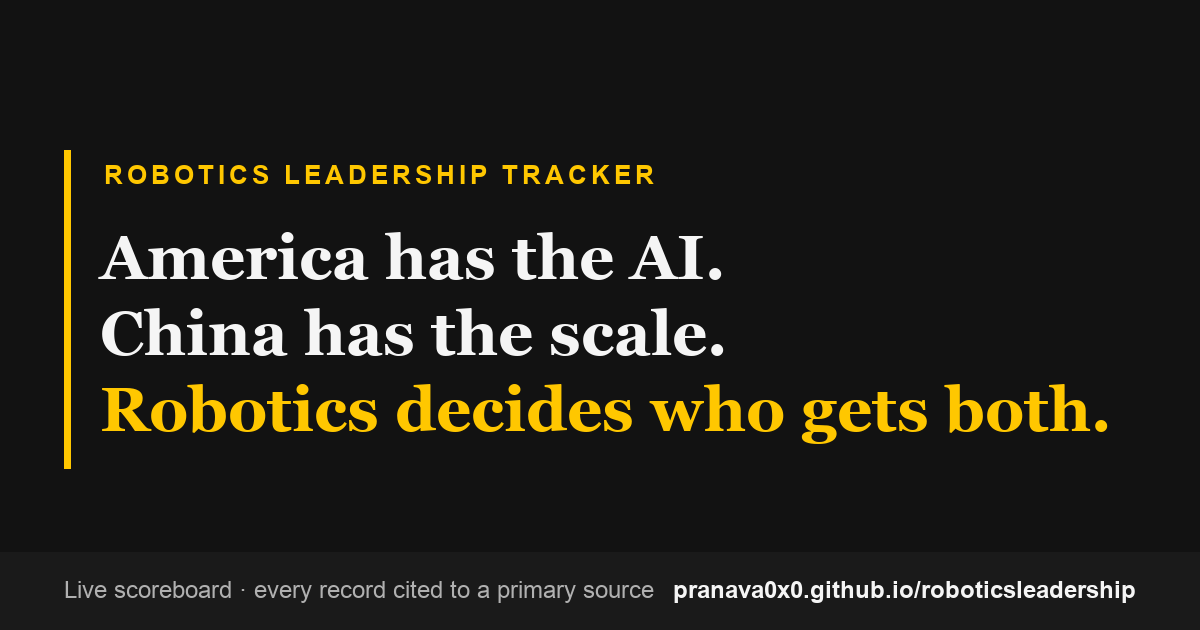
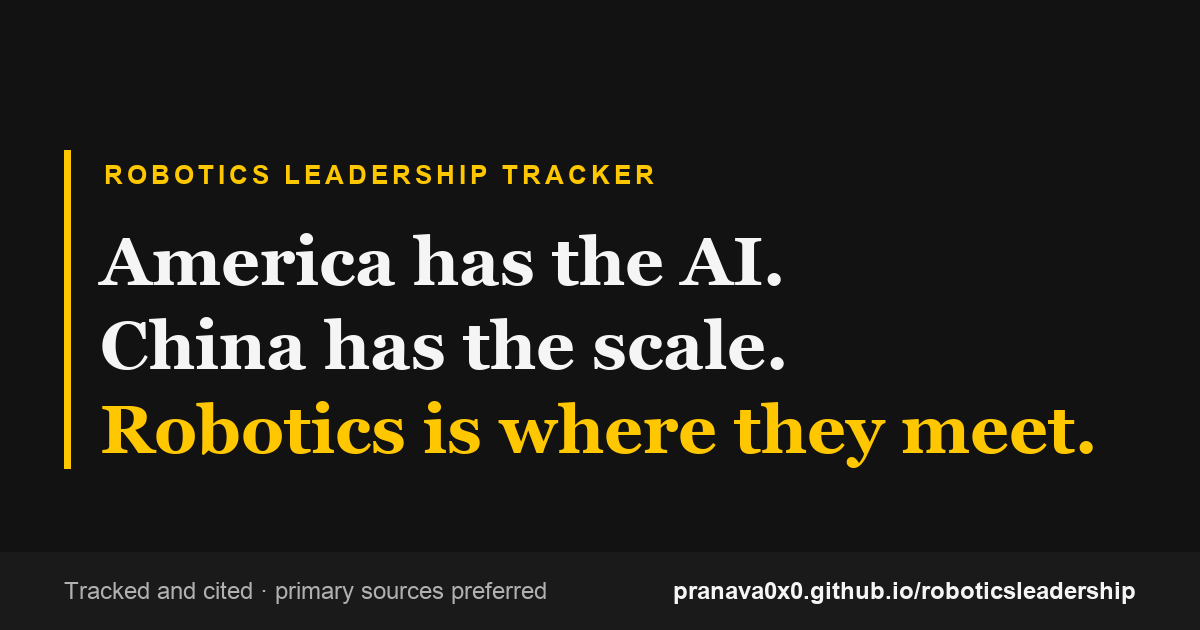
copy: reframe the front page around what the site offers, not what it claims
The dashboard stated contested predictions as settled fact, and made one
promise the data doesn't keep. Owner call to lead with the service and demote
the argument.

Cut, as forecasts written in the indicative:
- "Robotics decides who gets both"
- "Whoever combines intelligence with scale first sets the terms of the
  physical economy"
- "The decisive variable this decade isn't invention -- it's policy"
  (a strong prediction, and self-serving for a policy site)
- "This site keeps the score" -- cast the site as arbiter; the offer to a
  policymaker is the cited record, the verdict is theirs.

Hedged, because the site's own source page already hedges it: index asserted
"America leads where robots are invented and funded" while china.html's method
note concedes "'Edge' calls are editorial judgments on sourced data, not
scores". The brief now says "on the measures tracked here" and points at that
concession.

Corrected, because it is false rather than merely confident: "every record
cited to a primary source". ~16% of company sources and ~13% of news
source_urls are secondary press (Apptronik's funding cites TechCrunch and
Bloomberg). Replaced sitewide with the true invariant -- "every record is
cited; primary sources preferred" -- across 7 page footers, index + news
meta/OG, the share-card footer, and llms.txt. policies.html keeps a specific
verified claim ("nearly all... a few to trade press"): its sources really are
[…]

Changed region(s): [[0.0617, 0.4825, 0.925, 0.754], [0.0617, 0.3619, 0.6475, 0.4524], [0.0617, 0.9048, 0.925, 0.9651]]

diff --git a/docs/index.html b/docs/index.html
@@ -4,17 +4,17 @@
   <meta charset="utf-8" />
   <meta name="viewport" content="width=device-width, initial-scale=1, viewport-fit=cover" />
   <meta name="color-scheme" content="light dark" />
-  <meta name="description" content="America has the AI. China has the scale. Robotics decides who gets both. Live scoreboard of robotics startups, funding, deployments, and US policy — curated, with every record cited to a primary source." />
+  <meta name="description" content="A cited, current record of the US and Chinese robotics industries — funding, deployments, supply chain, and US policy. Every record is cited; primary sources preferred." />
   <link rel="canonical" href="https://pranava0x0.github.io/roboticsleadership/" />
   <meta property="og:type" content="website" />
   <meta property="og:site_name" content="Robotics Leadership Tracker" />
   <meta property="og:title" content="Robotics — How the U.S. can Lead" />
-  <meta property="og:description" content="America has the AI. China has the scale. Robotics decides who gets both. Live scoreboard of robotics startups, funding, deployments, and US policy — curated, with every record cited to a primary source." />
+  <meta property="og:description" content="A cited, current record of the US and Chinese robotics industries — funding, deployments, supply chain, and US policy. Every record is cited; primary sources preferred." />
   <meta property="og:url" content="https://pranava0x0.github.io/roboticsleadership/" />
   <meta property="og:image" content="https://pranava0x0.github.io/roboticsleadership/assets/share-card.png" />
   <meta property="og:image:width" content="1200" />
   <meta property="og:image:height" content="630" />
-  <meta property="og:image:alt" content="America has the AI. China has the scale. Robotics decides who gets both." />
+  <meta property="og:image:alt" content="America has the AI. China has the scale. Robotics is where they meet." />
   <meta name="twitter:card" content="summary_large_image" />
   <title>Robotics — How the U.S. can Lead</title>
   <link rel="preconnect" href="https://fonts.googleapis.com" />
@@ -72,22 +72,22 @@
   <main id="main">
     <p class="eyebrow">Dashboard</p>
     <h1 class="page-title">Robotics — How the U.S. can Lead</h1>
-    <p class="page-lede">America has the AI. China has the scale. Robotics decides who gets both — this site keeps the score.</p>
+    <p class="page-lede">A cited, current record of the US and Chinese robotics industries — funding, deployments, supply chain, and policy — assembled so you can weigh the evidence yourself.</p>
 
-    <aside class="bluf" aria-label="Bottom line up front">
-      <span class="bluf-tag">Bottom line</span>
+    <aside class="bluf" aria-label="What this is">
+      <span class="bluf-tag">What this is</span>
       <p class="bluf-body">
-        <strong>Robotics is where America&rsquo;s AI lead collides with China&rsquo;s manufacturing lead.</strong> Whoever combines intelligence with scale first sets the terms of the physical economy — and neither side has both yet. Funding, deployments, and policy tracked below, every record cited to a primary source.
+        <strong>America leads on AI and capital; China leads on installation and supply chain.</strong> Whether either advantage decides the decade is an open question — this site doesn&rsquo;t answer it. It tracks what&rsquo;s measurable, shows its sources, and marks its own judgment calls as judgments.
       </p>
     </aside>
 
     <section class="exec-brief" aria-label="Executive brief">
       <ol class="exec-brief-list">
-        <li><strong>America leads where robots are invented and funded</strong> — frontier AI, humanoid startups, and venture capital.</li>
-        <li><strong>China leads where robots are built and bought</strong> — 54% of world robot installations, more than half of global cobot shipments, and 2 million robots in operation.</li>
-        <li><strong>Neither lead is safe.</strong> AI diffuses fast and deployment compounds. The decisive variable this decade isn&rsquo;t invention — it&rsquo;s policy.</li>
+        <li><strong>Where America leads</strong>, on the measures tracked here — frontier AI, humanoid startups, and venture capital.</li>
+        <li><strong>Where China leads</strong> — 54% of world robot installations, more than half of global cobot shipments, and 2 million robots in operation.</li>
+        <li><strong>What&rsquo;s contested</strong> — components, batteries, sensors, and how fast either lead diffuses.</li>
       </ol>
-      <p class="exec-brief-note">Every number above is tracked, with primary sources, on the <a href="china.html">US vs China scoreboard</a>.</p>
+      <p class="exec-brief-note">Every number above is tracked and cited on the <a href="china.html">US vs China scoreboard</a>, where each &ldquo;edge&rdquo; call is marked as an editorial judgment on sourced data rather than a score.</p>
     </section>
 
     <!-- KPI strip -->

diff --git a/docs/news.html b/docs/news.html
@@ -4,17 +4,17 @@
   <meta charset="utf-8" />
   <meta name="viewport" content="width=device-width, initial-scale=1, viewport-fit=cover" />
   <meta name="color-scheme" content="light dark" />
-  <meta name="description" content="The latest tracked robotics news — funding, deployments, policy, and competitive moves, each cited to a primary source." />
+  <meta name="description" content="The latest tracked robotics news — funding, deployments, policy, and competitive moves, each cited; primary sources preferred." />
   <link rel="canonical" href="https://pranava0x0.github.io/roboticsleadership/news.html" />
   <meta property="og:type" content="website" />
   <meta property="og:site_name" content="Robotics Leadership Tracker" />
   <meta property="og:title" content="News · Robotics Tracker" />
-  <meta property="og:description" content="The latest tracked robotics news — funding, deployments, policy, and competitive moves, each cited to a primary source." />
+  <meta property="og:description" content="The latest tracked robotics news — funding, deployments, policy, and competitive moves, each cited; primary sources preferred." />
   <meta property="og:url" content="https://pranava0x0.github.io/roboticsleadership/news.html" />
   <meta property="og:image" content="https://pranava0x0.github.io/roboticsleadership/assets/share-card.png" />
   <meta property="og:image:width" content="1200" />
   <meta property="og:image:height" content="630" />
-  <meta property="og:image:alt" content="America has the AI. China has the scale. Robotics decides who gets both." />
+  <meta property="og:image:alt" content="America has the AI. China has the scale. Robotics is where they meet." />
   <meta name="twitter:card" content="summary_large_image" />
   <title>News · Robotics Tracker</title>
   <link rel="preconnect" href="https://fonts.googleapis.com" />
@@ -71,7 +71,7 @@
     <p class="eyebrow">Latest intelligence</p>
     <h1 class="page-title">News.</h1>
     <p class="page-lede">
-      Curated robotics stories on funding, deployments, policy, and competitive moves. Every item links to its primary source; filter by category or company below.
+      Curated robotics stories on funding, deployments, policy, and competitive moves. Every item is cited; filter by category or company below.
     </p>
 
     <form class="filter-bar" id="filter-form" onsubmit="return false;" aria-label="Filter news">
@@ -96,7 +96,7 @@
   </main>
 
   <footer class="site-footer">
-    <p>Every record links to its primary source. Curated narratives live on <a href="themes.html">Themes</a>.</p>
+    <p>Every record is cited; primary sources preferred. Curated narratives live on <a href="themes.html">Themes</a>.</p>
     <p class="footer-credit"><a href="https://pranavaraparla.com">pranavaraparla.com</a> · <a href="https://github.com/pranava0x0/roboticsleadership" aria-label="Source repository">GitHub</a></p>
   </footer>
 

diff --git a/docs/energy.html b/docs/energy.html
@@ -14,7 +14,7 @@
   <meta property="og:image" content="https://pranava0x0.github.io/roboticsleadership/assets/share-card.png" />
   <meta property="og:image:width" content="1200" />
   <meta property="og:image:height" content="630" />
-  <meta property="og:image:alt" content="America has the AI. China has the scale. Robotics decides who gets both." />
+  <meta property="og:image:alt" content="America has the AI. China has the scale. Robotics is where they meet." />
   <meta name="twitter:card" content="summary_large_image" />
   <title>Robotics for Energy · Robotics Tracker</title>
   <link rel="preconnect" href="https://fonts.googleapis.com" />
@@ -317,7 +317,7 @@
       </div>
       <p class="e-legend">
         <span><a class="e-tracked" aria-hidden="true">Tracked <span class="e-arrow">↗</span></a> = also profiled in the <a href="companies.html">Companies</a> dataset.</span>
-        <span>Every card links to a primary source. As of 2026-06-16.</span>
+        <span>Every card is cited; primary sources preferred. As of 2026-06-16.</span>
       </p>
     </section>
 
@@ -416,7 +416,7 @@
   </main>
 
   <footer class="site-footer">
-    <p>Every record links to its primary source.</p>
+    <p>Every record is cited; primary sources preferred.</p>
     <p class="footer-credit"><a href="https://pranavaraparla.com">pranavaraparla.com</a> · <a href="https://github.com/pranava0x0/roboticsleadership" aria-label="Source repository">GitHub</a></p>
   </footer>
 

diff --git a/docs/policies.html b/docs/policies.html
@@ -14,7 +14,7 @@
   <meta property="og:image" content="https://pranava0x0.github.io/roboticsleadership/assets/share-card.png" />
   <meta property="og:image:width" content="1200" />
   <meta property="og:image:height" content="630" />
-  <meta property="og:image:alt" content="America has the AI. China has the scale. Robotics decides who gets both." />
+  <meta property="og:image:alt" content="America has the AI. China has the scale. Robotics is where they meet." />
   <meta name="twitter:card" content="summary_large_image" />
   <title>Policy · Robotics Tracker</title>
   <link rel="preconnect" href="https://fonts.googleapis.com" />
@@ -226,7 +226,7 @@
   </main>
 
   <footer class="site-footer">
-    <p>Every record links to its primary source (Congress.gov, Federal Register, state agency, etc).</p>
+    <p>Every record is cited, nearly all to a primary source (Congress.gov, Federal Register, state agency); a few to trade press.</p>
     <p class="footer-credit"><a href="https://pranavaraparla.com">pranavaraparla.com</a> · <a href="https://github.com/pranava0x0/roboticsleadership" aria-label="Source repository">GitHub</a></p>
   </footer>
 

diff --git a/docs/supply-chain.html b/docs/supply-chain.html
@@ -14,7 +14,7 @@
   <meta property="og:image" content="https://pranava0x0.github.io/roboticsleadership/assets/share-card.png" />
   <meta property="og:image:width" content="1200" />
   <meta property="og:image:height" content="630" />
-  <meta property="og:image:alt" content="America has the AI. China has the scale. Robotics decides who gets both." />
+  <meta property="og:image:alt" content="America has the AI. China has the scale. Robotics is where they meet." />
   <meta name="twitter:card" content="summary_large_image" />
   <title>Supply Chain — Robotics Tracker</title>
   <link rel="preconnect" href="https://fonts.googleapis.com" />
@@ -249,7 +249,7 @@
   </main>
 
   <footer class="site-footer">
-    <p>Every record links to its primary source.</p>
+    <p>Every record is cited; primary sources preferred.</p>
     <p class="footer-credit"><a href="https://pranavaraparla.com">pranavaraparla.com</a> · <a href="https://github.com/pranava0x0/roboticsleadership" aria-label="Source repository">GitHub</a></p>
   </footer>
 

diff --git a/docs/china.html b/docs/china.html
@@ -14,7 +14,7 @@
   <meta property="og:image" content="https://pranava0x0.github.io/roboticsleadership/assets/share-card.png" />
   <meta property="og:image:width" content="1200" />
   <meta property="og:image:height" content="630" />
-  <meta property="og:image:alt" content="America has the AI. China has the scale. Robotics decides who gets both." />
+  <meta property="og:image:alt" content="America has the AI. China has the scale. Robotics is where they meet." />
   <meta name="twitter:card" content="summary_large_image" />
   <title>US vs China · Robotics Tracker</title>
   <link rel="preconnect" href="https://fonts.googleapis.com" />
@@ -131,7 +131,7 @@
   </main>
 
   <footer class="site-footer">
-    <p>Every record links to its primary source.</p>
+    <p>Every record is cited; primary sources preferred.</p>
     <p class="footer-credit"><a href="https://pranavaraparla.com">pranavaraparla.com</a> · <a href="https://github.com/pranava0x0/roboticsleadership" aria-label="Source repository">GitHub</a></p>
   </footer>
 

diff --git a/docs/themes.html b/docs/themes.html
@@ -14,7 +14,7 @@
   <meta property="og:image" content="https://pranava0x0.github.io/roboticsleadership/assets/share-card.png" />
   <meta property="og:image:width" content="1200" />
   <meta property="og:image:height" content="630" />
-  <meta property="og:image:alt" content="America has the AI. China has the scale. Robotics decides who gets both." />
+  <meta property="og:image:alt" content="America has the AI. China has the scale. Robotics is where they meet." />
   <meta name="twitter:card" content="summary_large_image" />
   <title>Themes · Robotics Tracker</title>
   <link rel="preconnect" href="https://fonts.googleapis.com" />
@@ -87,7 +87,7 @@
   </main>
 
   <footer class="site-footer">
-    <p>Every record links to its primary source.</p>
+    <p>Every record is cited; primary sources preferred.</p>
     <p class="footer-credit"><a href="https://pranavaraparla.com">pranavaraparla.com</a> · <a href="https://github.com/pranava0x0/roboticsleadership" aria-label="Source repository">GitHub</a></p>
   </footer>
 

diff --git a/docs/states.html b/docs/states.html
@@ -14,7 +14,7 @@
   <meta property="og:image" content="https://pranava0x0.github.io/roboticsleadership/assets/share-card.png" />
   <meta property="og:image:width" content="1200" />
   <meta property="og:image:height" content="630" />
-  <meta property="og:image:alt" content="America has the AI. China has the scale. Robotics decides who gets both." />
+  <meta property="og:image:alt" content="America has the AI. China has the scale. Robotics is where they meet." />
   <meta name="twitter:card" content="summary_large_image" />
   <title>State Policy · Robotics Tracker</title>
   <link rel="preconnect" href="https://fonts.googleapis.com" />

diff --git a/docs/companies.html b/docs/companies.html
@@ -14,7 +14,7 @@
   <meta property="og:image" content="https://pranava0x0.github.io/roboticsleadership/assets/share-card.png" />
   <meta property="og:image:width" content="1200" />
   <meta property="og:image:height" content="630" />
-  <meta property="og:image:alt" content="America has the AI. China has the scale. Robotics decides who gets both." />
+  <meta property="og:image:alt" content="America has the AI. China has the scale. Robotics is where they meet." />
   <meta name="twitter:card" content="summary_large_image" />
   <title>Companies · Robotics Tracker</title>
   <link rel="preconnect" href="https://fonts.googleapis.com" />

diff --git a/scripts/make-share-card.py b/scripts/make-share-card.py
@@ -59,12 +59,18 @@ SANS = resolve_font("sans")
 SANS_BOLD = resolve_font("sans_bold")
 
 EYEBROW = "ROBOTICS LEADERSHIP TRACKER"
+# The card states the frame, not a verdict. "Robotics decides who gets both"
+# was a prediction written as fact, and the footer's "every record cited to a
+# primary source" was simply false (~16% of company sources and ~13% of news
+# URLs are secondary press). Both are the site's most-shared copy, so they were
+# the most-repeated versions of claims the site can't support. See
+# improvement-plan.md § The thesis, which this must stay in sync with.
 HEADLINE = [
     ("America has the AI.", TEXT),
     ("China has the scale.", TEXT),
-    ("Robotics decides who gets both.", ACCENT),
+    ("Robotics is where they meet.", ACCENT),
 ]
-FOOTER = "Live scoreboard · every record cited to a primary source"
+FOOTER = "Tracked and cited · primary sources preferred"
 URL = "pranava0x0.github.io/roboticsleadership"
 
 OUT = Path(__file__).resolve().parent.parent / "docs" / "assets" / "share-card.png"
@@ -100,13 +106,32 @@ def main() -> None:
         d.text((100, y), line, font=head_font, fill=color)
         y += int(size * 1.24)
 
-    # Footer strip
+    # Footer strip — the footer is left-aligned and the URL right-aligned in a
+    # fixed-width bar, so a footer that outgrows the gap silently prints *over*
+    # the URL. That is exactly what happened when this copy was rewritten, and
+    # nothing caught it but a human looking at the PNG. Shrink to fit the way
+    # the headline above already does, and halt rather than ship an overlap.
     d.rectangle([0, H - 78, W, H], fill=SURFACE)
-    foot_font = font(SANS, 24)
-    d.text((64, H - 78 + 24), FOOTER, font=foot_font, fill=MUTED)
     url_font = font(SANS_BOLD, 24)
     url_w = d.textlength(URL, font=url_font)
-    d.text((W - 64 - url_w, H - 78 + 24), URL, font=url_font, fill=TEXT)
+    foot_max = W - 64 - 64 - url_w - 24  # margins + a 24px gutter before the URL
+
+    foot_size = 24
+    foot_font = font(SANS, foot_size)
+    while foot_size > 14 and d.textlength(FOOTER, font=foot_font) > foot_max:
+        foot_size -= 1
+        foot_font = font(SANS, foot_size)
+    if d.textlength(FOOTER, font=foot_font) > foot_max:
+        raise SystemExit(
+            f"make-share-card: FOOTER ({FOOTER!r}) does not fit beside the URL "
+            f"even at {foot_size}px — shorten it."
+        )
+
+    # Anchor both to the strip's vertical middle so they stay aligned to each
+    # other even when the footer has been shrunk to a different size.
+    strip_mid = H - 78 + 39
+    d.text((64, strip_mid), FOOTER, font=foot_font, fill=MUTED, anchor="lm")
+    d.text((W - 64, strip_mid), URL, font=url_font, fill=TEXT, anchor="rm")
 
     img.save(OUT, optimize=True)
     log.info("wrote %s (%d bytes)", OUT, OUT.stat().st_size)

diff --git a/backlog.md b/backlog.md
@@ -26,7 +26,7 @@ The machinery exists and is tested; each of these is now a small addition to `sc
 ### 3. Cheap, high-leverage, any time
 
 - [x] ~~**Add a `pull_request` CI job**~~ — done 2026-07-16 (`ci.yml`): lint-actions + strict validate + bake check + `npm test`. Shipped with the bake because the bake made it a prerequisite, not a nicety.
-- [ ] **Decide the "every record links to its primary source" claim** — it's false in ~10 places of canonical copy, and it's the site's central credibility promise. Owner call because it touches meta/OG copy + the share card. See the item under High. **S–M**
+- [x] ~~**Decide the "every record links to its primary source" claim**~~ — done 2026-07-17: reworded to the true invariant sitewide, share card regenerated. See High.
 
 ### 4. Known debt WS0 exposed but deliberately did not fix
 
@@ -41,7 +41,8 @@ Each is detailed under **High** below.
 
 ## High
 
-- **"Every record links to its primary source" is not true, and it's the site's central credibility claim (found by Codex review, 2026-07-16).** Many records cite *secondary press*, not a primary source: Apptronik's funding cites TechCrunch + Bloomberg (`companies.json`), and news records cite NYT/WSJ. On a partial outlet regex, **≥16% of company sources and ≥13% of news `source_url`s** are recognisably secondary — the real share is higher. The claim contradicts the site's own caveat that funding/valuation figures are "reported values from press coverage unless a round is marked `confirmed`", and `validate.js` only enforces that `sources[]` is non-empty and URL-shaped — it has never checked primariness. Corrected in `docs/llms.txt` already (that file exists to tell bots what to trust, so it couldn't ship a false guarantee), but the claim still appears in **~10 places of owner-canonical copy**: `index.html` (incl. `<meta name="description">` + OG), `news.html` (incl. meta + OG), `china.html`, `themes.html` footers. Left alone deliberately — meta/OG copy is canonical in `improvement-plan.md` § The thesis and a change means regenerating `share-card.png` (`python3 scripts/make-share-card.py`), so it's an owner call, not a drive-by edit. Two honest options: (a) reword to the true invariant — "every record is cited, primary sources preferred"; or (b) keep the claim and make it true by adding a `source_type: primary|secondary` field that `validate.js` enforces. (a) is a session; (b) is a data project.
+- ~~**"Every record links to its primary source" is not true, and it's the site's central credibility claim.**~~ **Resolved 2026-07-17 (owner call) via option (a):** reworded sitewide to the true invariant — **"every record is cited; primary sources preferred"** — across index/news/china/themes/supply-chain/energy/policies footers, index + news meta/OG, the share-card footer, llms.txt, and CLAUDE.md. policies.html keeps a specific, verified claim ("nearly all… a few to trade press") because its sources really are ~90% primary. Landed alongside the front-page neutrality reframe, which is what surfaced it. **Option (b) is still open if a stronger guarantee is ever wanted:** add `source_type: primary|secondary` and have `validate.js` enforce it — that's a data project, and nothing currently stops the claim regressing but review. Original finding below, kept for the record:
+  - **(historical)** Found by Codex review, 2026-07-16. Many records cite *secondary press*, not a primary source: Apptronik's funding cites TechCrunch + Bloomberg (`companies.json`), and news records cite NYT/WSJ. On a partial outlet regex, **≥16% of company sources and ≥13% of news `source_url`s** are recognisably secondary — the real share is higher. The claim contradicts the site's own caveat that funding/valuation figures are "reported values from press coverage unless a round is marked `confirmed`", and `validate.js` only enforces that `sources[]` is non-empty and URL-shaped — it has never checked primariness. Corrected in `docs/llms.txt` already (that file exists to tell bots what to trust, so it couldn't ship a false guarantee), but the claim still appears in **~10 places of owner-canonical copy**: `index.html` (incl. `<meta name="description">` + OG), `news.html` (incl. meta + OG), `china.html`, `themes.html` footers. Left alone deliberately — meta/OG copy is canonical in `improvement-plan.md` § The thesis and a change means regenerating `share-card.png` (`python3 scripts/make-share-card.py`), so it's an owner call, not a drive-by edit. Two honest options: (a) reword to the true invariant — "every record is cited, primary sources preferred"; or (b) keep the claim and make it true by adding a `source_type: primary|secondary` field that `validate.js` enforces. (a) is a session; (b) is a data project.
 - **Curatorial pass on the 29 off-topic *unflagged* policy records (added 2026-07-16).** WS0's curation gate swept every record carrying `_requires_curator_review`, but the flag turned out not to be a quality signal at all: it only marks which scraper version ingested the record. After the sweep, ~29 of the 77 surviving policies still have nothing to do with robotics — "Air Plan Approval; Ohio", "Pipeline Safety: Breakout Tank Inspection Rule", "Self-Regulatory Organizations; Nasdaq…" — and they were never flagged, so the gate can't catch them. Related: `robotics_scope` was boilerplate ("Federal Register — robotics-related" / "Federal Register publication") on 118 of the pre-sweep 155, which is why it can't be filtered on; the 10 records the sweep kept now carry real hand-written scope, the rest still don't. **This needs per-record human judgement, not a keyword rule** — the WS0 sweep showed why: a keyword filter would have thrown away the Entity List addition of 32 Chinese entities and the Section 301 excess-capacity investigation (no robotics keyword, squarely on-thesis) while keeping "Automated Commercial Environment", a customs IT system. Do this before WS2's Brief ranks anything, and before the WS8 API publishes the dataset. Root fix is upstream: the Federal Register scraper's relevance filter is too loose (see the dedicated item below).
 - **Tighten the Federal Register relevance filter (added 2026-07-16).** The scraper's query matches any incidental keyword, so it ingests DEA drug-scheduling notices and housing-loan rules into a robotics tracker; the WS0 sweep dropped 78 such records but the source of them is untouched, so they will refill. Needs a subject-level test (title/summary must be *about* robotics/autonomy/the US-China tech contest), not a substring match. Pair with de-duplicating Federal Register, which is ingested into both news and policies (WS6).
 - ~~**Nothing validates a pull request (added 2026-07-16).**~~ **Fixed same day** by `ci.yml`: runs on `pull_request` with lint-actions + strict `validate.js` + check-only `render-static.js` + `npm test`. Both gaps closed — PRs get checks, and `npm test` now runs somewhere other than a developer's laptop. It shipped with the bake step because the bake turned it from cheap-and-nice into a prerequisite: the bake only runs in `pages.yml` (push-to-main), so without a pre-merge check a bake bug would first appear as a failed deploy on `main`. **Residual gap worth remembering:** `ci.yml` can only run the bake in check mode, so deploy-only behaviour is still never exercised until after merge.
@@ -124,6 +125,7 @@ The report breaks industrial robotics down by *application* — a lens we don't 
 
 ## Low
 
+- **The mobile hero hides `.page-lede`, which the 2026-07-17 reframe promoted to the site's actual value proposition.** `styles.css:1566-1571` does `.page-lede, .eyebrow { display: none }` at ≤640px — "Hide verbose hero copy to save screen space", a reasonable call when the lede was a flourish ("…this site keeps the score"). It now carries the service statement ("A cited, current record… so you can weigh the evidence yourself"), so mobile readers skip straight from the h1 to the BLUF. Not urgent — the BLUF is tagged "What this is" and carries the same framing, so nothing is lost outright — but if the lede is the pitch, consider showing it on mobile at a smaller size rather than hiding it, or folding a short form into the BLUF. Pre-existing rule, re-scoped by the copy change, not introduced by it.
 - **`scripts/energy.test.js` contradicts its own CLAUDE.md rule (spotted 2026-07-16 while building the bake step).** CLAUDE.md says to evaluate the embedded-literal slice with `node:vm`'s `runInNewContext(slice, Object.create(null))` "because a repo security hook blocks the `Function` constructor on sight" — but the file **imports `runInNewContext` and never uses it**, evaluating via the `Function` constructor instead (energy.test.js:18 vs :38). One of the two is wrong: either the hook doesn't block it (the test passes today, so at minimum it doesn't block *running* it) or the file was never migrated after the note was written. Evidence for the note: the hook fired while this very backlog entry was being typed, on the literal constructor name in prose — so it does match on sight, in any file type. `render-static.js` follows the documented rule and works, so the pattern is proven. Low: a dead import and a doc/code mismatch, not a defect — but it will mislead the next person who reads CLAUDE.md and then opens the file it points at.
 - **Site-wide loading/error states on data-driven pages (from the 2026-07-13 multi-perspective review).** `await RT.loadData(...)` / `RT.loadAll()` in the `DOMContentLoaded` handlers (companies.html, news.html, policies.html, states.html, china.html, …) has no `try/catch`; on a failed fetch the view stays silently empty — a gap against CLAUDE.md's "loading, error, and empty states on every view." Fix once, consistently: a shared `RT.mountPage(loader, render)` wrapper (or a small try/catch + `.empty-state` message + optional skeleton) rather than per-page patches, so all pages behave the same. Empty-filter states already exist; this is specifically the fetch-failure and initial-loading cases.
 - **Touch-target audit for `.btn` and `.filter-select` (≥44px).** Site-wide `.btn` is `min-height:38px` and selects are `38px` (`styles.css` ~820/851); CLAUDE.md mandates ≥44px on touch. Surfaced again by the 2026-07-13 review for news.html's Compact/Reset/Prev/Next and filter selects, but it's the established site-wide sizing — bump once in the shared rules and re-verify all filter bars at 375px.

diff --git a/CLAUDE.md b/CLAUDE.md
@@ -174,7 +174,9 @@ Maintain a `backlog.md` for ideas, features, and enhancements.
 
 - **Every page's `<footer class="site-footer">` must carry a `.footer-credit` line linking to `https://pranavaraparla.com` and the GitHub source repo `https://github.com/pranava0x0/roboticsleadership`.** When adding a new page, copy the `.footer-credit` `<p>` from an existing page (e.g. `docs/themes.html`) rather than reinventing it.
 - **Every page carries canonical + OG + Twitter meta (added 2026-07-09).** New pages copy the OG block from an existing head, set their own `og:title` / `og:description` / `og:url` / canonical, and reuse the shared `docs/assets/share-card.png` (1200×630 PNG — Twitter/FB reject SVG og:images). Regenerate the card with `python3 scripts/make-share-card.py` whenever the thesis copy changes; the thesis is canonical in `improvement-plan.md` § The thesis.
-- **The thesis is the editing knife.** "America has the AI. China has the scale. Robotics decides who gets both." Every new chart, page, or dataset must answer "does this move the scoreboard?" — if it doesn't, it's decoration (see improvement-plan.md's cut list for precedents).
+- **The thesis is the editing knife.** "America has the AI. China has the scale. Robotics is where they meet." Every new chart, page, or dataset must answer "does this help a reader judge where the two countries actually stand?" — if it doesn't, it's decoration (see improvement-plan.md's cut list for precedents).
+- **The site describes; it does not predict or declare winners (reframed 2026-07-17, owner call).** The front page used to say "Robotics decides who gets both", "whoever combines intelligence with scale first sets the terms of the physical economy", "this site keeps the score", and "the decisive variable this decade isn't invention — it's policy". All forecasts written as fact; all cut. When writing copy: state what's tracked, attribute the judgment ("on the measures tracked here"), and let the reader conclude. The tell that you've drifted: **the front page asserting something the source page hedges** — china.html's own method note says "'Edge' calls are editorial judgments on sourced data, not scores", while index.html was flatly declaring who leads. Full rationale in `improvement-plan.md` § The thesis.
+- **"Every record links to its primary source" is false — never reintroduce it.** ~16% of company sources and ~13% of news `source_url`s are secondary press (Apptronik's funding cites TechCrunch and Bloomberg). The true invariant, now used sitewide, is **"every record is cited; primary sources preferred."** `validate.js` only checks that `sources[]` is non-empty and URL-shaped — it has never checked primariness, so nothing will catch a regression here but review. policies.html is the one honest exception and says so specifically ("nearly all… a few to trade press"): its sources really are ~90% federalregister.gov / congress.gov / whitehouse.gov / nist.gov.
 - **`RT.writeQuery()` strips the URL fragment (`#hash`).** It rebuilds the URL as `pathname[?qs]` via `history.replaceState` — no `#…`. So any per-render code that reads `location.hash` (deep-link-to-item) must **capture the hash once on load, before the first render/`writeQuery` call**, then consume it on the initial render only (null it afterward) — otherwise the anchor is either wiped before it's read, or (if you "fix" it by preserving the hash) re-applied on every Prev/Next click. Bit us on news.html's `news.html#<id>` deep links (2026-07-13; see issues.md).
 - **Hrefs built from scraped data go through `RT.safeURL()` then `RT.escapeHTML()`.** `escapeHTML` stops attribute breakout but not a `javascript:`/`data:` scheme; `safeURL` allows only http(s)/site-relative/anchor and rejects the rest to `#`. Use it for any `source_url` / `archive_url` / `sources[].url` sink (already applied in `renderNewsCard`, `srcLinks`, `archiveLink`).
 - **…but never wrap a *hardcoded internal* href in `RT.safeURL()` — it silently rewrites it to `#`.** "Site-relative" in that rule means the regex `^(\/|\.\/|#)`: a leading `/`, `./`, or `#`. A bare `companies.html?sort=funding-desc` matches **neither** that nor `^https?://`, so `safeURL` rejects it and the link goes nowhere — with no error, no console warning, and a perfectly normal-looking `<a>`. `safeURL` is an allowlist for *untrusted* input; a literal you typed yourself isn't untrusted, and running it through the allowlist only creates a way to break it. The site's own idiom for internal links is a plain literal with `encodeURIComponent` on any dynamic segment (see `renderNewsCard`'s company/policy pills). Caught in review of the WS0 KPI drill-downs, where it would have turned all 6 KPI cards into dead `#` links (2026-07-16).
